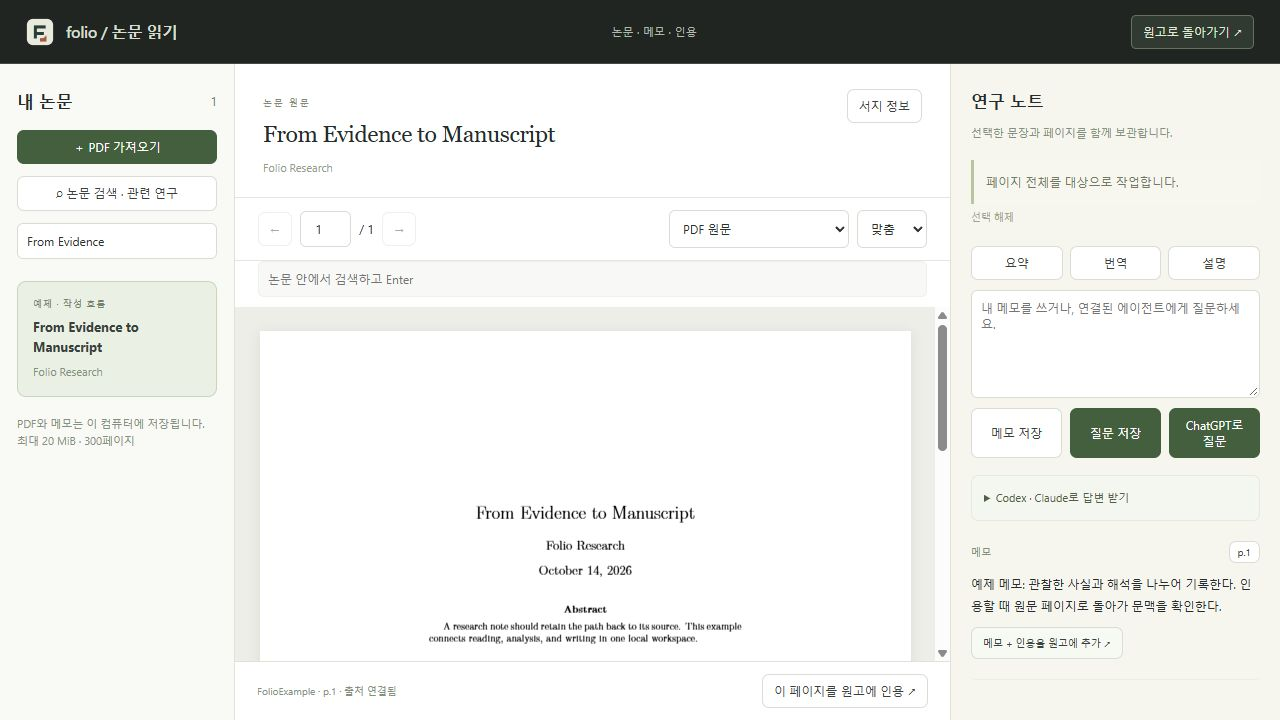
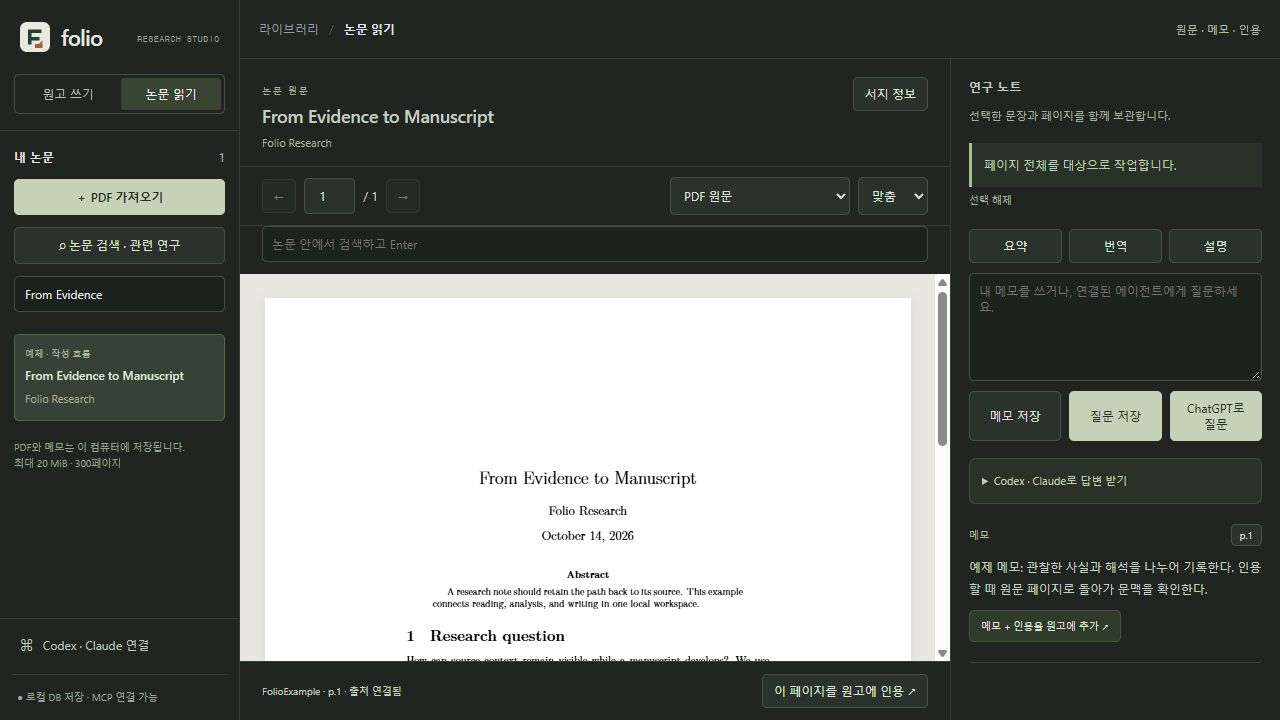
Unify reading and writing navigation and add themed desktop window controls

diff --git a/web/research.js b/web/research.js
@@ -4,7 +4,7 @@ pdfjs.GlobalWorkerOptions.workerSrc = '/vendor/pdfjs/build/pdf.worker.mjs';
 
 export function setupResearch({ api, toast, cite, ask }) {
   const root = document.createElement('section'); root.id = 'research'; root.hidden = true;
-  root.innerHTML = `<header class="research-header"><div class="research-brand"><img src="./folio.svg" alt=""><span>folio / 논문 읽기</span></div><div class="research-mode">논문 · 메모 · 인용</div><button id="backToWriting">원고로 돌아가기 ↗</button></header>
+  root.innerHTML = `<header class="research-header topbar"><button id="readerMenu" class="icon-button mobile-menu" aria-label="메뉴">☰</button><div class="breadcrumb"><span>라이브러리</span><span class="crumb-divider">/</span><strong>논문 읽기</strong></div><span class="research-mode">원문 · 메모 · 인용</span></header>
     <div class="research-layout"><aside class="library-panel"><div class="research-heading"><h2>내 논문</h2><span id="paperCount">0</span></div><button id="uploadPdf" class="research-primary">＋ PDF 가져오기</button><input id="pdfInput" type="file" accept="application/pdf,.pdf" hidden><input id="librarySearch" placeholder="제목, 저자, 태그 검색" aria-label="라이브러리 검색"><div id="libraryList"></div><p class="research-tip">PDF와 메모는 이 컴퓨터에 저장됩니다.<br>최대 20 MiB · 300페이지</p></aside>
     <main class="reader-panel"><div class="reader-title"><div><small>논문 원문</small><h1 id="paperTitle">논문을 선택하세요</h1><p id="paperMeta">논문을 가져오면 페이지와 출처가 연결된 작업을 시작할 수 있습니다.</p></div><button id="editMetadata" disabled>서지 정보</button></div>
     <div class="reader-controls"><button id="prevPage" aria-label="이전 페이지">←</button><input id="pageNumber" type="number" min="1" value="1" aria-label="PDF 페이지"><span id="pageTotal">/ 0</span><button id="nextPage" aria-label="다음 페이지">→</button><select id="readerMode" aria-label="읽기 모드"><option value="pdf">PDF 원문</option><option value="text">추출 텍스트 · 선택 및 인용</option></select><select id="readerZoom" aria-label="PDF 확대"><option value="1">맞춤</option><option value="1.3">130%</option><option value="1.6">160%</option></select></div>
@@ -15,8 +15,10 @@ export function setupResearch({ api, toast, cite, ask }) {
     <div class="research-quick"><button data-question="이 페이지의 핵심 주장, 방법, 한계를 한국어로 요약해 주세요. 근거 페이지를 표시해 주세요.">요약</button><button data-question="선택한 문장(선택이 없으면 이 페이지)을 한국어로 번역해 주세요. 원문과 번역을 구분해 주세요.">번역</button><button data-question="선택한 내용(선택이 없으면 이 페이지)을 논문 문맥에 맞춰 설명해 주세요. 근거와 추론을 구분해 주세요.">설명</button></div>
     <textarea id="researchInput" placeholder="내 메모를 쓰거나, 연결된 에이전트에게 질문하세요." aria-label="연구 메모 또는 질문"></textarea><div class="research-compose"><button id="saveNote">메모 저장</button><button id="askAgent" class="research-primary">질문 저장</button></div><details class="agent-help"><summary>Codex · Claude로 답변 받기</summary><p>질문 저장 후 연결된 에이전트에게 아래 지시를 보내세요. 답변이 오면 자동으로 표시됩니다.</p><code id="agentPrompt">Folio의 folio_pending_requests를 읽고, 해당 논문의 원문 페이지를 확인한 뒤 folio_answer_request로 한국어 답변을 저장해 줘.</code><button id="copyAgentPrompt">지시 복사</button></details><div id="researchEntries"></div></aside></div>
     <dialog id="metadataDialog"><form id="metadataForm"><h2>서지 정보</h2><p>자동 추출된 제목·저자를 확인하세요. DOI와 연도는 확인된 값만 입력합니다.</p><label>제목<input name="title" required maxlength="500"></label><label>저자 (BibTeX: and로 구분)<input name="authors" maxlength="1000"></label><div class="metadata-row"><label>연도<input name="year" pattern="[0-9]{4}" maxlength="4"></label><label>인용 키<input name="citekey" required pattern="[A-Za-z][A-Za-z0-9_:\\-]*" maxlength="80"></label></div><label>DOI<input name="doi" placeholder="10.xxxx/…" maxlength="200"></label><label>태그<input name="tags" placeholder="예: 읽는 중, 관련 연구, 중요" maxlength="500"></label><div class="modal-actions"><button type="button" id="cancelMetadata">취소</button><button class="research-primary">저장</button></div></form></dialog>`;
-  document.body.append(root);
-  const $ = id => root.querySelector(`#${id}`);
+  document.querySelector('.workspace').append(root);
+  const libraryPanel=root.querySelector('.library-panel');
+  document.querySelector('.sidebar-bottom').before(libraryPanel);
+  const $ = id => root.querySelector(`#${id}`) || libraryPanel.querySelector(`#${id}`);
   let paper, page = 1, quote = '', pdf, task, renderTask, version = 0, busy = false, polling = false, metadataRevision;
   const discoverButton = document.createElement('button'); discoverButton.textContent='⌕ 논문 검색 · 관련 연구'; discoverButton.className='discover-button';
   $('librarySearch').before(discoverButton); discoverButton.onclick=setupDiscovery({api,toast,getPaper:()=>paper});
@@ -103,7 +105,12 @@ export function setupResearch({ api, toast, cite, ask }) {
   }
   const direct=document.createElement('button');direct.textContent='ChatGPT로 질문';direct.className='research-primary';$('askAgent').after(direct);
   direct.onclick=guard(async()=>{if(!paper)throw new Error('논문을 선택하세요.');const id=paper.id,p=page,q=quote;const source=await api(`/papers/${id}/pages/${p}`);await ask({context:`${paper.title} · p.${p}\n${q || source.text}`,prompt:$('researchInput').value || '이 페이지의 핵심 주장과 한계를 설명해 주세요.',image:$('pdfSurface').querySelector('canvas')?.toDataURL('image/png'),onNote:async body=>{await api(`/papers/${id}/notes`,{method:'POST',body:{page:p,quote:q,body,kind:'explanation'}});await refreshPaper();}});});
-  $('backToWriting').onclick = () => { if (busy) return toast('현재 작업을 마친 뒤 원고로 돌아갈 수 있습니다.'); root.hidden = true; document.querySelector('.app-shell').inert = false; };
+  function setReading(reading){
+    root.hidden=!reading;document.body.classList.toggle('reading',reading);
+    for(const [id,active] of [['writeMode',!reading],['readMode',reading]]){const button=document.getElementById(id);button?.classList.toggle('active',active);button?.setAttribute('aria-pressed',String(active));}
+    document.getElementById('sidebar').classList.remove('open');
+  }
+  $('readerMenu').onclick=()=>document.getElementById('sidebar').classList.toggle('open');
   $('uploadPdf').onclick = () => $('pdfInput').click();
   $('pdfInput').onchange = guard(async event => {
     const file = event.target.files[0]; if (!file) return;
@@ -136,5 +143,7 @@ export function setupResearch({ api, toast, cite, ask }) {
   $('cancelMetadata').onclick = () => $('metadataDialog').close();
   $('metadataForm').onsubmit = event => { event.preventDefault(); void guard(async () => { const metadata = Object.fromEntries(new FormData(event.target)); paper = await api(`/papers/${paper.id}`, { method: 'PUT', body: { expected_revision: metadataRevision, metadata } }); $('metadataDialog').close(); $('paperTitle').textContent = paper.title; $('paperMeta').textContent = [paper.authors,paper.year,paper.doi].filter(Boolean).join(' · '); await refreshList(); await showPage(); })(); };
   setInterval(async () => { if (root.hidden || !paper || busy || polling) return; polling = true; const id = paper.id; try { const remote = await api(`/papers/${id}`); if (paper?.id === id && !busy && JSON.stringify(remote) !== JSON.stringify(paper)) { const ocrChanged=JSON.stringify(remote.ocr)!==JSON.stringify(paper.ocr); paper = remote; entries(); if(ocrChanged&&!quote)await showPage(); } } catch {} finally { polling = false; } }, 2500);
-  return async (source) => { root.hidden = false; document.querySelector('.app-shell').inert = true; await refreshList(); if(source?.paperId){await openPaper(source.paperId);page=Math.max(1,Math.min(paper.page_count,source.page || 1));await showPage();} };
+  const open=async(source)=>{setReading(true);await refreshList();if(source?.paperId){await openPaper(source.paperId);page=Math.max(1,Math.min(paper.page_count,source.page || 1));await showPage();}};
+  open.close=()=>{if(busy)return toast('현재 작업을 마친 뒤 원고로 돌아갈 수 있습니다.');setReading(false);};
+  return open;
 }

diff --git a/web/refinement.css b/web/refinement.css
@@ -16,3 +16,44 @@ dialog{background:#252c27;border-color:#4c574d;border-radius:9px}dialog p{color:
 .workspace-switch{display:flex;margin:0 14px 16px;border:1px solid #455044;border-radius:5px;padding:3px;gap:3px}.workspace-switch button{flex:1;border:0;border-radius:3px;padding:8px;background:none;color:#b5c0b0;font-size:12px}.workspace-switch button.active{background:#374532;color:#eef3e8}
 .editor-outline{max-height:130px;overflow:auto;border-top:1px solid #374035;padding:10px 14px}.editor-outline summary{font-size:10px;color:#a2ada0;cursor:pointer;letter-spacing:.06em}.editor-outline button{display:block;background:none;border:0;color:#bdc8b7;padding:6px 8px;text-align:left;font-size:11px;width:100%;overflow:hidden;text-overflow:ellipsis;white-space:nowrap}.editor-outline button:hover{background:#354130}
 @media(max-width:1100px){.top-actions{gap:5px}.toolbar-button{padding:7px}.topbar{padding:0 12px}.sidebar{width:214px}.brand-caption{display:none}}
+
+/* One navigation shell for both working modes. */
+.brand,.workspace-switch,.sidebar-bottom{flex-shrink:0}
+.sidebar>.library-panel{display:none;flex:1;min-height:0;padding:18px 14px;border:0;border-top:1px solid var(--line);background:transparent;color:#e4e6e3}
+.reading .sidebar>.library-panel{display:block}
+.reading .sidebar>:is(.workspace-head,.sidebar-tabs,.search-box,.file-header,.file-list,.editor-outline),.reading .sidebar-bottom>:is(.writing-only,#historyButton,#importButton,#exportProject){display:none!important}
+.reading .workspace>:is(.topbar,.main-grid,.conflict-banner){display:none!important}
+#research{position:relative;inset:auto;z-index:auto;flex:1;min-height:0;overflow:hidden;background:#202522;color:#e4e6e3}
+#research[hidden]{display:none}
+.research-header.topbar{height:59px;padding:0 19px;background:#202522;border-bottom:1px solid var(--line)}
+.research-layout{grid-template-columns:minmax(300px,1fr) 330px}
+.library-panel .research-heading h2,.research-notebook .research-heading h2{font-size:12px;font-weight:600;letter-spacing:.02em}
+.library-panel .research-heading{margin-bottom:14px}.library-panel .research-heading>span{color:#aab6a3}
+.library-panel :is(button,input){font:inherit;font-size:12px;border-radius:5px;border:1px solid #455044;background:#2a322b;color:#dbe3d5;padding:9px 10px}
+.library-panel #uploadPdf{background:#c5d2b5;color:#263124;border-color:#c5d2b5;font-weight:600}
+.library-panel #librarySearch{background:#1b211d;border-color:#455044;color:#e4e6e3}
+.library-panel .library-card{display:grid;gap:7px;width:100%;text-align:left;padding:12px 10px;background:transparent;border:1px solid transparent;border-radius:5px}
+.library-panel .library-card.selected{background:#354235;border-color:#53634c}.library-panel .library-card:hover{background:#303832}
+.library-panel .library-card small{color:#aab79f;letter-spacing:.03em}.library-panel .library-card strong{font-size:12px;font-weight:500}.library-panel .library-card span{color:#a7b09f}
+.library-panel .research-tip{color:#98a493;font-size:10px}
+#research :is(.reader-title,.reader-controls,.reader-search,.reader-footer,.research-notebook){background:#202522;border-color:var(--line);color:#c4cec0}
+.reader-title{padding:18px 22px 14px}.reader-title h1{font-family:inherit;font-size:18px;font-weight:500;letter-spacing:-.25px;margin:6px 0}.reader-title small,.reader-title p{color:#a7b29e}
+#research :is(button,input,select,textarea){background:#29322b;border-color:#475444;color:#dce5d6;border-radius:5px}
+#research button:hover{background:#364431;border-color:#708163}
+#research .research-primary{background:#c5d2b5;border-color:#c5d2b5;color:#263124}
+#research .research-primary:hover{background:#d4dfc8}
+#research :is(#paperSearch,#researchInput){background:#1b231d!important;border-color:#44513f!important;color:#dce5d6}
+#research .research-notebook{padding:20px 18px}.research-notebook .research-tip{color:#a5b29b}
+#research #selectedQuote{background:#283226;border-color:#a8bc90;color:#bdcbb1}
+#research .quiet-button{color:#a9b59f;background:transparent}
+#research .agent-help{background:#293226;border-color:#414f39;color:#aebe9e}#research .agent-help summary{color:#c1d0b3}
+#research .research-entry{border-color:#394432}#research .research-entry>button{background:#303c2b!important}#research .entry-head small{color:#aabd98}
+#research .research-entry blockquote{background:#293425;color:#b6c5a9;border-color:#8a9d74}
+#readerViewport{background:#e8e8e0}.reader-footer{min-height:58px}.reader-controls{padding:10px 22px}.reader-search{padding:0 22px 12px}
+.window-titlebar{height:34px;background:#202522;border-bottom:1px solid #353c38;display:flex;align-items:center;justify-content:space-between;user-select:none;app-region:drag;-webkit-app-region:drag}
+.window-title{padding-left:18px;font-size:11px;font-weight:600;color:#ced8c6;letter-spacing:.02em}.window-title span{font-weight:400;color:#8f9c89;margin-left:10px;font-size:10px}
+.window-controls{height:100%;display:flex;app-region:no-drag;-webkit-app-region:no-drag}.window-controls button{width:46px;border:0;border-radius:0;background:transparent;color:#c5cec0;padding:0;display:grid;place-items:center}.window-controls button:hover{background:#394335}.window-controls button[data-action=close]:hover{background:#a3453c;color:white}.window-controls svg{width:12px;height:12px;fill:none;stroke:currentColor;stroke-width:1}
+.desktop .app-shell{height:calc(100vh - 34px);min-height:0}
+@media(max-width:1100px){.research-layout{grid-template-columns:minmax(290px,1fr) 280px}.research-header.topbar{padding:0 12px}}
+@media(max-width:800px){#research{overflow:auto}.research-layout{display:flex;flex-direction:column}.research-notebook{min-height:350px}.sidebar>.library-panel{max-height:none}.sidebar #libraryList{display:grid}.library-panel .library-card{min-width:0}.reader-panel{min-height:650px}.research-header .mobile-menu{display:block}.desktop .sidebar{top:34px}.reading .sidebar{z-index:40}.window-titlebar{position:relative;z-index:50}}
+@media print{.window-titlebar{display:none!important}.desktop .app-shell{height:auto}}

diff --git a/web/app.js b/web/app.js
@@ -307,7 +307,7 @@ const libraryButton = document.createElement('button'); libraryButton.className 
 const compileButton=document.createElement('button');compileButton.className='toolbar-button primary';compileButton.textContent='PDF 컴파일';compileButton.id='compilePdf';
 compileButton.onclick=setupCompile({api,save,getProject:()=>active,toast});$('printPdf').before(compileButton);$('printPdf').textContent='간이 인쇄';$('printPdf').classList.remove('primary');
 libraryButton.onclick = async () => { try { if (await save()) await openResearch(); } catch (error) { toast(error.message); } };
-const modes=document.createElement('div');modes.className='workspace-switch';modes.innerHTML='<button class="active">원고 쓰기</button><button id="readMode">논문 읽기</button>';document.querySelector('.brand').after(modes);modes.querySelector('#readMode').onclick=libraryButton.onclick;
+const modes=document.createElement('nav');modes.className='workspace-switch';modes.setAttribute('aria-label','작업 모드');modes.innerHTML='<button id="writeMode" class="active" aria-pressed="true">원고 쓰기</button><button id="readMode" aria-pressed="false">논문 읽기</button>';document.querySelector('.brand').after(modes);modes.querySelector('#readMode').onclick=libraryButton.onclick;modes.querySelector('#writeMode').onclick=()=>openResearch.close();
 const outline=document.createElement('details');outline.className='editor-outline';outline.open=true;outline.innerHTML='<summary>문서 목차</summary><div id="outlineList"></div><div id="sourceLinks"></div>';document.querySelector('.sidebar-bottom').before(outline);
 if(window.folioDesktop){const b=document.createElement('button');b.className='side-action';b.textContent='브라우저에서 같은 작업 공간 열기';b.onclick=()=>window.folioDesktop.openWeb();document.querySelector('.sidebar-bottom').append(b);}
 const openAssistant=setupAssistant({toast,getContext:()=>{const e=$('editor');return e.value.slice(e.selectionStart,e.selectionEnd)||e.value;}});

diff --git a/web/assistant.js b/web/assistant.js
@@ -9,7 +9,7 @@ export const accountBridge = window.folioDesktop || Object.fromEntries(['status'
   }catch(error){popup?.close();throw error;}
 }]));
 export function setupAssistant({getContext,toast}) {
-  const button=document.createElement('button');button.className='side-action';button.textContent='◎  ChatGPT · 원고 질문';document.querySelector('.sidebar-bottom').prepend(button);
+  const button=document.createElement('button');button.className='side-action writing-only';button.textContent='◎  ChatGPT · 원고 질문';document.querySelector('.sidebar-bottom').prepend(button);
   const dialog=document.createElement('dialog');dialog.className='assistant-dialog';
   dialog.innerHTML=`<header><h2>원고 질문</h2><button id="closeAssistant" aria-label="닫기">✕</button></header><p>선택 영역이 있으면 그 부분을, 없으면 현재 파일을 전송합니다. 답변은 원고에 자동 적용되지 않습니다.</p><section class="account-controls"><select id="aiAccount" aria-label="ChatGPT 계정"></select><button id="aiLogin">Continue with ChatGPT</button><button id="aiLogout">로그아웃</button><button id="aiCancel">로그인 취소</button></section><p id="aiStatus" role="status"></p><a href="https://chatgpt.com/settings/usage" target="_blank" rel="noreferrer">ChatGPT 사용량·앱 권한 관리</a><hr><label>모델 <select id="aiModel" aria-label="AI 모델"></select></label><button id="aiModels">모델 새로고침</button><label for="aiPrompt">질문</label><textarea id="aiPrompt" rows="4" placeholder="이 문단의 논리적 비약을 짚어 줘"></textarea><details><summary>전송할 원고 확인</summary><pre id="aiContext"></pre></details><button id="aiSend" class="primary">질문 보내기</button><pre id="aiAnswer" aria-live="polite"></pre><button id="aiCopy">답변 복사</button>`;
   document.body.append(dialog);const $=id=>dialog.querySelector('#'+id), bridge=accountBridge;let captured='',timer,busy=false,onNote=null,pageImage=null;

diff --git a/web/desktop-shell.js b/web/desktop-shell.js
@@ -1,0 +1,11 @@
+const desktop=window.folioDesktop;
+if(desktop){
+  document.body.classList.add('desktop');
+  const bar=document.createElement('header');bar.className='window-titlebar';
+  bar.innerHTML='<span class="window-title">Folio <span>Research workspace</span></span><div class="window-controls"><button data-action="minimize" aria-label="최소화" title="최소화"><svg viewBox="0 0 12 12"><path d="M1 6h10"/></svg></button><button data-action="maximize" aria-label="최대화" title="최대화"><svg viewBox="0 0 12 12"><rect x="1.5" y="1.5" width="9" height="9"/></svg></button><button data-action="close" aria-label="닫기" title="닫기"><svg viewBox="0 0 12 12"><path d="m2 2 8 8m0-8-8 8"/></svg></button></div>';
+  document.body.prepend(bar);
+  for(const button of bar.querySelectorAll('button'))button.onclick=()=>desktop[button.dataset.action]();
+  const maximize=bar.querySelector('[data-action="maximize"]');
+  const update=({maximized})=>{maximize.title=maximized?'이전 크기로 복원':'최대화';maximize.setAttribute('aria-label',maximize.title);maximize.innerHTML=maximized?'<svg viewBox="0 0 12 12"><path d="M4 3V1.5h6.5V8H9"/><rect x="1.5" y="4" width="6.5" height="6.5"/></svg>':'<svg viewBox="0 0 12 12"><rect x="1.5" y="1.5" width="9" height="9"/></svg>';};
+  desktop.onWindowState(update);desktop.windowState().then(update);
+}

diff --git a/web/index.html b/web/index.html
@@ -13,6 +13,7 @@
   <script>window.MathJax = { tex: { inlineMath: [['$', '$'], ['\\(', '\\)']] } };</script>
   <script defer src="/vendor/mathjax/tex-chtml.js"></script>
   <script type="module" src="./app.js"></script>
+  <script type="module" src="./desktop-shell.js"></script>
 </head>
 <body>
   <div class="app-shell">

diff --git a/CHANGELOG.md b/CHANGELOG.md
@@ -7,6 +7,7 @@
 - CodeMirror editor with syntax highlighting, completion, search, folding and document outline.
 - Source-linked reading notes and manuscript navigation in a shared reading/writing workspace.
 - ChatGPT OAuth connection, model selection and questions about selected text or a PDF page.
+- Shared navigation and theme across writing and reading; custom desktop title bar with window controls.
 - A new Folio SVG symbol, quieter interface and illustrated documentation.
 - 28 MCP tools, including project ZIP import.
 
